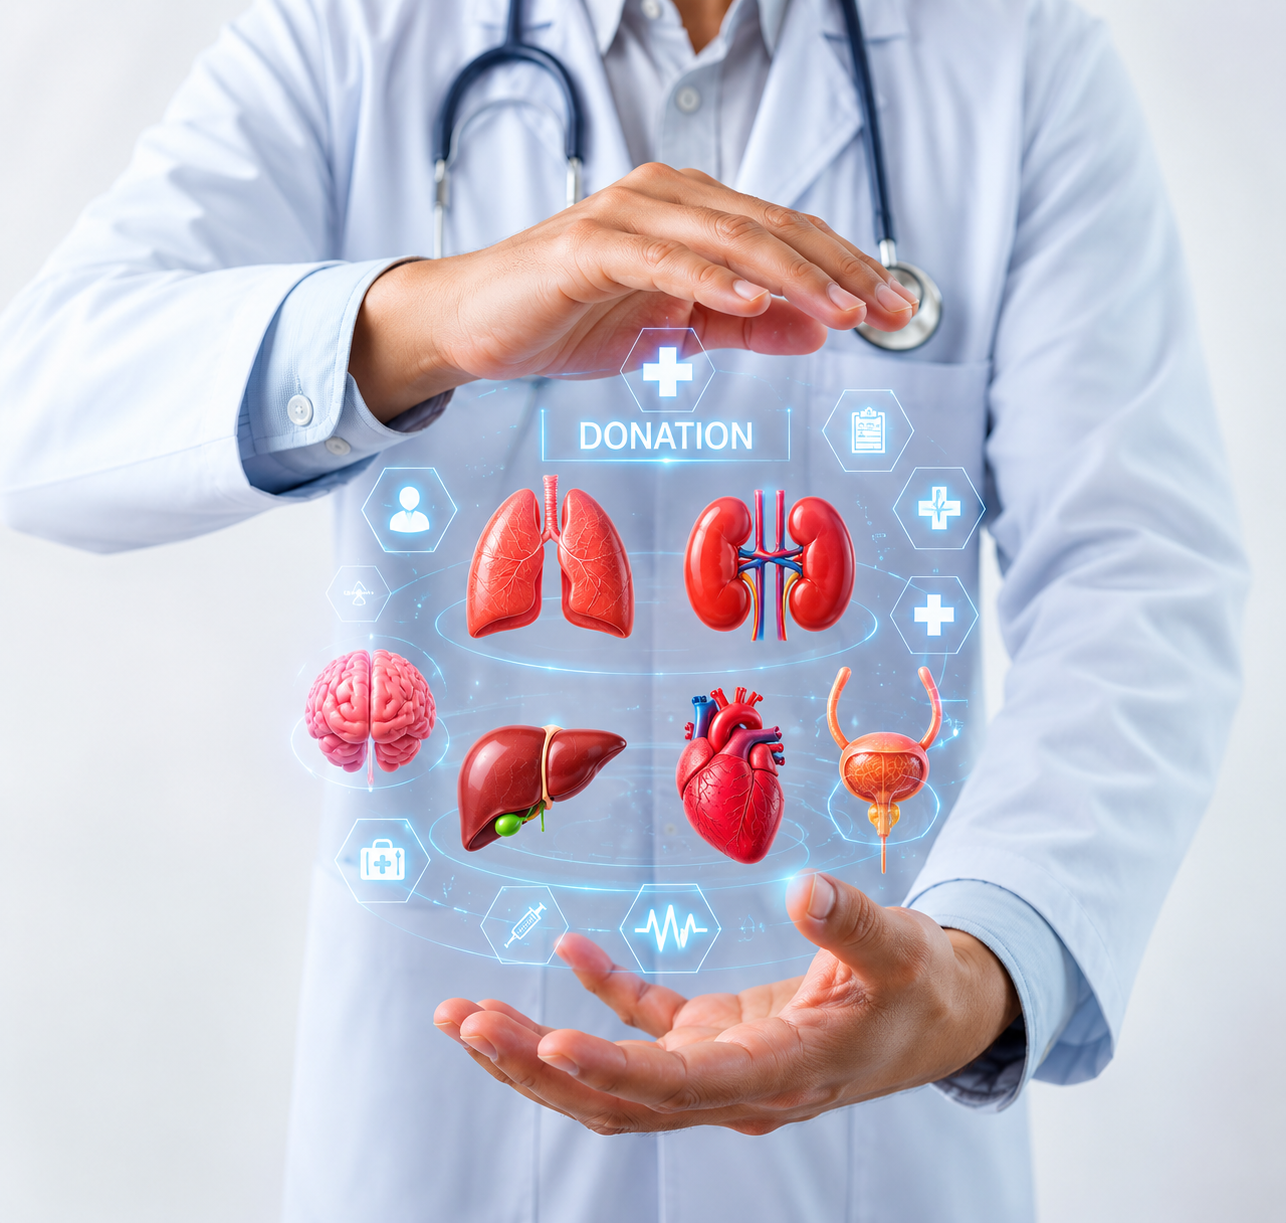
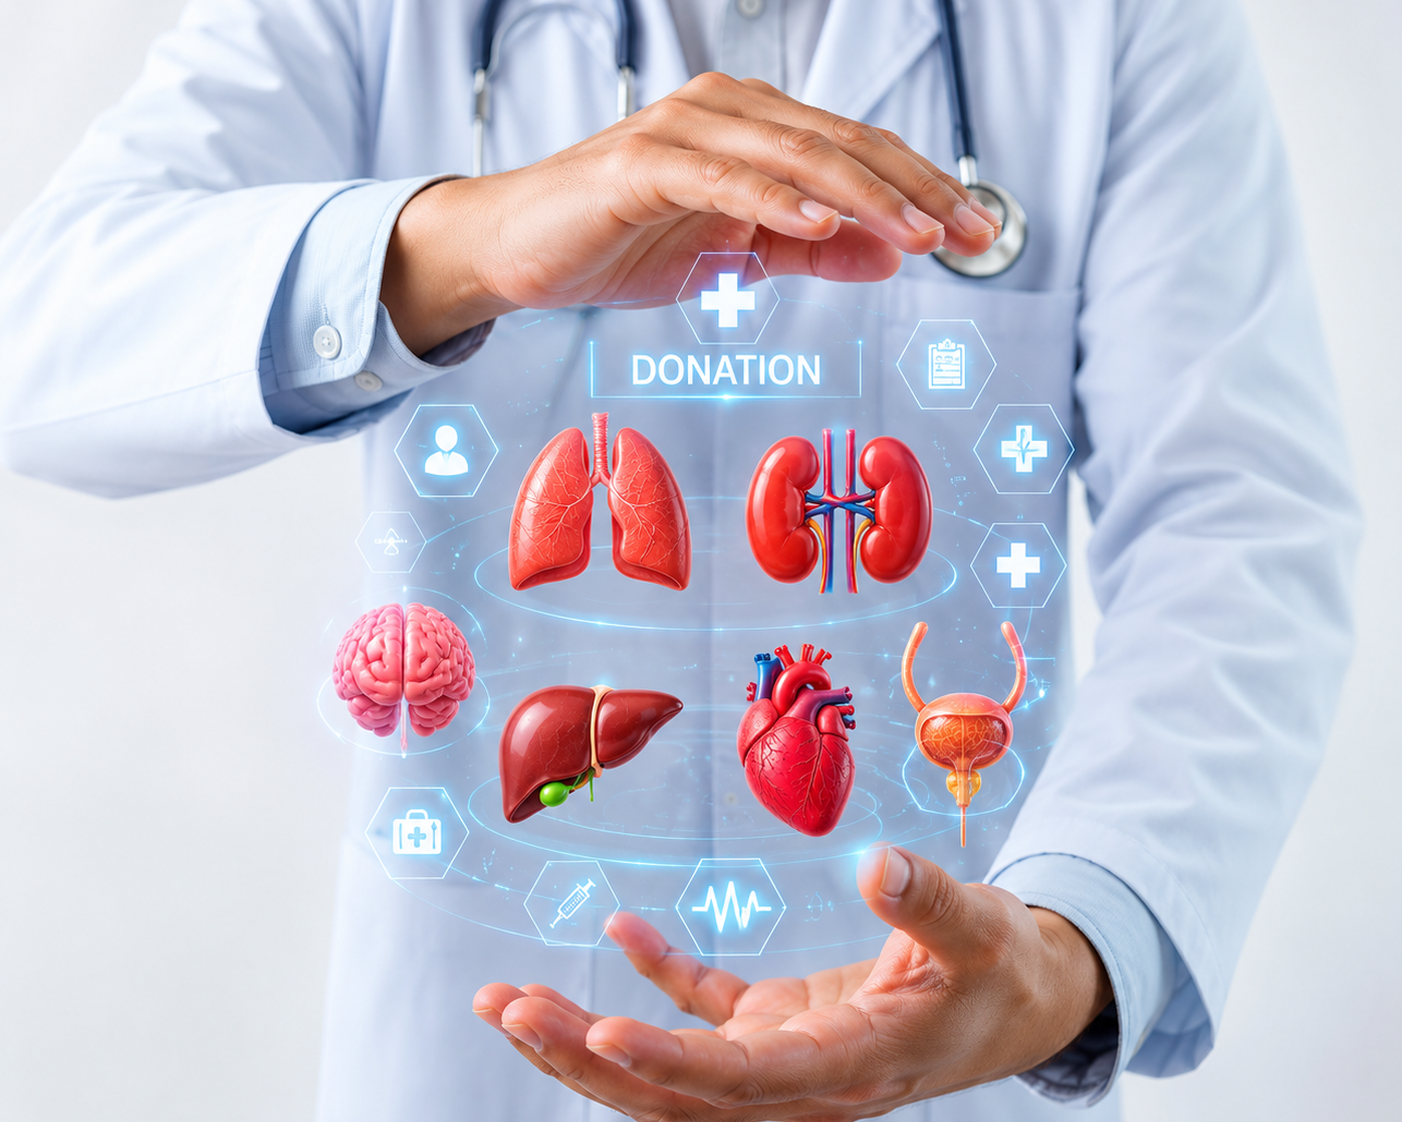
Add Render admin management command

diff --git a/templates/carousel.html b/templates/carousel.html
@@ -89,7 +89,7 @@
                         >
 
                             <img
-                                src="{% static 'disease/Heart.png' %}"
+                                src="{% static 'disease/Transplants.png' %}"
                                 alt="Cardiac Sciences"
                                 class="specialty-image
                                        w-full
